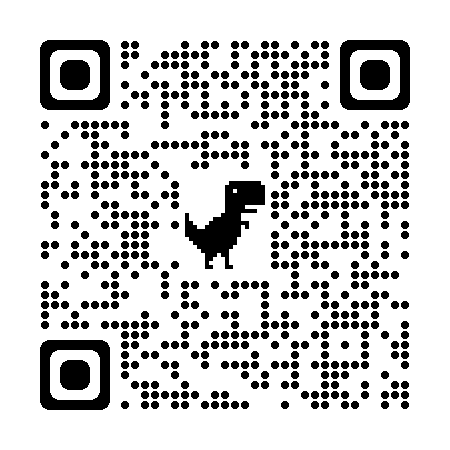
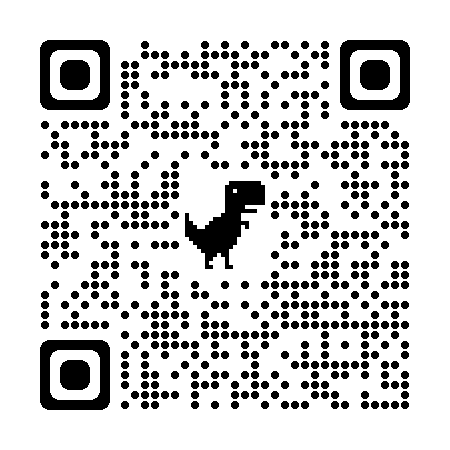
atualização do site - wireframe

diff --git a/index.html b/index.html
@@ -80,9 +80,16 @@
     </section>
 
     <!-- Wireframe -->
-    <section>
+    <section id="wireframe">
         <div class="Container">
-            <h2>Wireframe</h2>
+            <div id="textoWire">
+                <h2>Wireframe</h2>
+                <p>Wireframe é uma representação visual da estrutura básica em uma página. Ele deve ser feito da maneira mais simples possível, mostrando apenas o essencial, como uma espécie de rascunho, sem cores ou imagens. Clique no botão <span>ou escaneie o QR Code</span> para obter o wireframe desta página.</p>
+                <a href="wireframe.pdf" target="_blank">PDF</a>
+            </div>
+            <div id="qrcode">
+                <img src="./img/qrcode.png" alt="qrcode">
+            </div>
         </div>
     </section>
 
